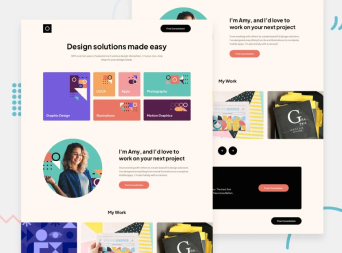
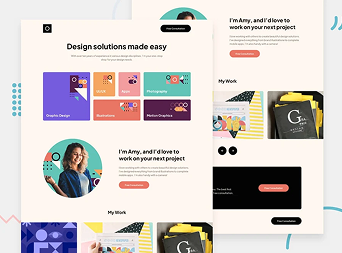
hero listo

diff --git a/sass/layout/_hero.scss b/sass/layout/_hero.scss
@@ -70,7 +70,7 @@
         }
     
 
-    &__projects{
+    .hero__projects{
         // position: relative;
         display: flex;
         flex-direction: row;
@@ -81,7 +81,23 @@
         margin: 80px 16px 0 16px;
         h1{
             font-size: 2rem;
-            color: v.$white;
+            // color: red;
+        }
+        @include m.breakpoint(tablet){
+            display: grid;
+            grid-template-columns: 1fr 1fr;
+            justify-items: flex-end;
+            gap: 80px;
+            // margin: 0;
+            // padding: 0;
+            
+            h1{
+                font-size: 72px;
+            }
+            h3{
+                text-transform: uppercase;
+                font-size: 16px;
+            }
         }
         .btn-contact{
         @include m.btn-contact;
@@ -94,7 +110,11 @@
             align-items: center;
             justify-content: space-between;
             gap:15px;
+            // @include m.breakpoint(tablet){
+            //     color: red;
+            // }
         }
+    
     }
     &__portfolio{
         display: flex;
@@ -357,4 +377,188 @@
                     margin-top: 52px;
                     }
                 }
+}
+.hero__portfolio{
+    @include m.breakpoint(tablet){
+        display: grid;
+        grid-template-columns: 1fr 1fr;
+        justify-items: start;
+        gap: 20px;
+        margin: 0;
+        // padding: 16;
+        .portfolio__1,.portfolio__2,.portfolio__3,.portfolio__4,.portfolio__5,.portfolio__6{
+            min-width: 50px;
+            max-width: 350px;
+            display: flex;
+            flex-direction: column;
+            align-items: start;
+            justify-content: start;
+            // background-color: v.$dark-gray;
+            border-radius: 8px;
+            // padding-bottom: 16px;
+            text-transform: uppercase;
+            .image-1,.image-2,.image-3,.image-4,.image-5,.image-6{
+                display: none;
+            }
+            .image-1__tablet,.image-2__tablet,.image-3__tablet,.image-4__tablet,.image-5__tablet,.image-6__tablet{
+                display: block;
+                width: 100%;
+            } 
+            .description{
+                // position: relative;
+                display: flex;
+                flex-direction: column;
+                align-items: start;
+                justify-content: start;
+                gap: 25px;
+                margin-top: 20px;
+                .title{
+                    font-size: 24px;
+                    color: v.$white;
+                    margin: 0px;
+                    text-align: left;
+                }
+                .skills{
+                    font-size: 18px;
+                }
+                .link{
+                    display: flex;
+                    flex-direction: row;
+                    align-items: center;
+                    gap: 20px;
+                    letter-spacing: 3px;
+                    &__proyect{
+                        display: flex;
+                        flex-direction: column;
+                        align-items: start;
+                        gap: 10px;
+                    }
+                    &__code{
+                        display: flex;
+                        flex-direction: column;
+                        align-items: start;
+                        gap: 10px;
+                    }
+                    
+                    p{
+                        font-size: 16px;
+                    }
+                }
+            }  
+        }
+        .portfolio__1{
+            // min-width: 50px;
+            // max-width: 280px;
+            // display: flex;
+            // flex-direction: column;
+            // align-items: start;
+            // justify-content: start;
+            // // background-color: v.$dark-gray;
+            // border-radius: 8px;
+            // // padding-bottom: 16px;
+            // text-transform: uppercase;
+            // .image-1{
+            //     display: none;
+            // }
+            // .image-1__tablet{
+            //     display: block;
+            //     // width: 100%;
+            // }  
+        }
+    }
+    // .portfolio__2{
+    //         min-width: 50px;
+    //         max-width: 320px;
+    //         display: flex;
+    //         flex-direction: column;
+    //         align-items: start;
+    //         justify-content: start;
+    //         // background-color: v.$dark-gray;
+    //         border-radius: 8px;
+    //         // padding-bottom: 16px;
+    //         text-transform: uppercase;
+    //         .image-2{
+    //             display: none;
+    //             }
+    //         .image-2__tablet{
+    //             display: block;
+    //             width: 100%;
+    //             }   
+    //     }
+    // .portfolio__3{
+    //         min-width: 50px;
+    //         max-width: 300px;
+    //         display: flex;
+    //         flex-direction: column;
+    //         align-items: start;
+    //         justify-content: start;
+    //         // background-color: v.$dark-gray;
+    //         border-radius: 8px;
+    //         // padding-bottom: 16px;
+    //         text-transform: uppercase;
+    //         .image-3{
+    //             display: none;
+    //             }
+    //         .image-3__tablet{
+    //             display: block;
+    //             // width: 100%;
+    //             }   
+    //     }
+    // .portfolio__4{
+    //         min-width: 50px;
+    //         max-width: 300px;
+    //         display: flex;
+    //         flex-direction: column;
+    //         align-items: start;
+    //         justify-content: start;
+    //         // background-color: v.$dark-gray;
+    //         border-radius: 8px;
+    //         // padding-bottom: 16px;
+    //         text-transform: uppercase;
+    //         .image-4{
+    //             display: none;
+    //             }
+    //         .image-4__tablet{
+    //             display: block;
+    //             // width: 100%;
+    //             }   
+    //     }
+    // .portfolio__5{
+    //         min-width: 50px;
+    //         max-width: 300px;
+    //         display: flex;
+    //         flex-direction: column;
+    //         align-items: start;
+    //         justify-content: start;
+    //         // background-color: v.$dark-gray;
+    //         border-radius: 8px;
+    //         // padding-bottom: 16px;
+    //         text-transform: uppercase;
+    //         .image-5{
+    //             display: none;
+    //             }
+    //         .image-5__tablet{
+    //             display: block;
+    //             // width: 100%;
+    //             }   
+    //     }
+    // .portfolio__6{
+    //         min-width: 50px;
+    //         max-width: 300px;
+    //         display: flex;
+    //         flex-direction: column;
+    //         align-items: start;
+    //         justify-content: start;
+    //         // background-color: v.$dark-gray;
+    //         border-radius: 8px;
+    //         // padding-bottom: 16px;
+    //         text-transform: uppercase;
+    //         .image-6{
+    //             display: none;
+    //             }
+    //         .image-6__tablet{
+    //             display: block;
+    //             // width: 100%;
+    //             }   
+    //     }
 }

diff --git a/index.html b/index.html
@@ -203,6 +203,11 @@
             src="./img/proyecto_1_movil.png"
             alt="primer proyecto"
           />
+          <img
+            class="image-1__tablet"
+            src="./img/proyecto_1_tablet.png"
+            alt="primer proyecto"
+          />
           <section class="description">
             <h2 class="title">Design Portfolio</h2>
             <p class="skills">HTML CSS</p>
@@ -230,6 +235,11 @@
           <img
             class="image-2"
             src="./img/proyecto_2_movil.png"
+            alt="primer proyecto"
+          />
+          <img
+            class="image-2__tablet"
+            src="./img/proyecto_2_tablet.png"
             alt="primer proyecto"
           />
           <section class="description">
@@ -261,6 +271,11 @@
             src="./img/proyecto_3_movil.png"
             alt="primer proyecto"
           />
+          <img
+            class="image-3__tablet"
+            src="./img/proyecto_3_tablet.png"
+            alt="primer proyecto"
+          />
           <section class="description">
             <h2 class="title">E-LEARNING LANDING PAGE</h2>
             <p class="skills">HTML CSS JAVASCRIPT</p>
@@ -290,6 +305,12 @@
             src="./img/proyecto_4_movil.png"
             alt="primer proyecto"
           />
+          <img
+            class="image-4__tablet"
+            src="./img/proyecto_4_tablet.png"
+            alt="primer proyecto"
+          />
+
           <section class="description">
             <h2 class="title">E-LEARNING LANDING PAGE</h2>
             <p class="skills">HTML CSS JAVASCRIPT</p>
@@ -319,6 +340,12 @@
             src="./img/proyecto_5_movil.png"
             alt="primer proyecto"
           />
+          <img
+            class="image-5__tablet"
+            src="./img/proyecto_5_tablet.png"
+            alt="primer proyecto"
+          />
+
           <section class="description">
             <h2 class="title">E-LEARNING LANDING PAGE</h2>
             <p class="skills">HTML CSS JAVASCRIPT</p>
@@ -348,6 +375,12 @@
             src="./img/proyecto_6_movil.png"
             alt="primer proyecto"
           />
+          <img
+            class="image-6__tablet"
+            src="./img/proyecto_6_tablet.png"
+            alt="primer proyecto"
+          />
+
           <section class="description">
             <h2 class="title">E-LEARNING LANDING PAGE</h2>
             <p class="skills">HTML CSS JAVASCRIPT</p>
